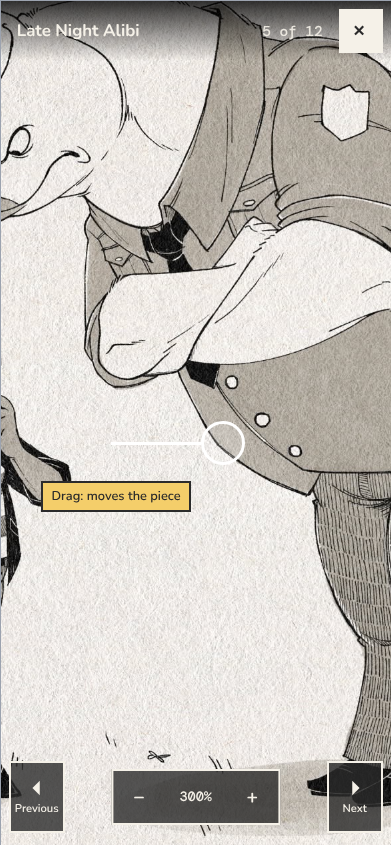
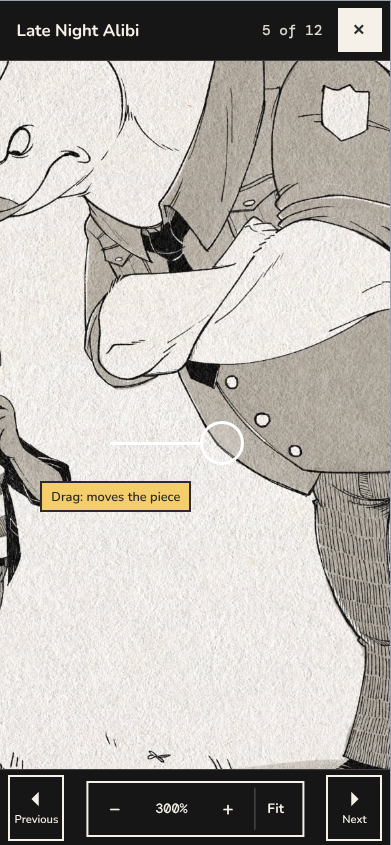
Full-screen design: the persona walkthrough's fixes
Claude-Session: https://claude.ai/code/session_01HWRLNSVAoX5Ni8d8XcwJh1

diff --git a/docs/design/mockups/portfolio-full-screen/mockups.html b/docs/design/mockups/portfolio-full-screen/mockups.html
@@ -40,23 +40,29 @@
   .fs { position: absolute; inset: 0; background: var(--fs); color: #f5f1e8; overflow: hidden; }
   .fs__stage { position: absolute; inset: 0; display: flex; align-items: center; justify-content: center; }
   .fs__stage img { flex-shrink: 0; max-width: 100%; max-height: 100%; object-fit: contain; display: block; }
-  .fs__top { position: absolute; top: 0; left: 0; right: 0; display: flex; align-items: center; gap: 1rem; padding: .5rem .5rem .5rem 1rem;
-    background: linear-gradient(#000c, #0000); }
+  .fs__top { position: absolute; top: 0; left: 0; right: 0; height: 60px; display: flex; align-items: center; gap: 1rem; padding: .5rem .5rem .5rem 1rem;
+    background: #161616; border-bottom: 1px solid #f5f1e833; }
+  .fs__stage.between { top: 60px; bottom: 76px; }
+  .fs__stage.between-wide { top: 60px; bottom: 72px; left: 72px; right: 72px; }
+  .fs__bottom { position: absolute; left: 0; right: 0; bottom: 0; height: 76px; background: #161616; border-top: 1px solid #f5f1e833; }
   .fs__title { font: 700 1.05rem 'Nunito'; flex: 1; min-width: 0; white-space: nowrap; overflow: hidden; text-overflow: ellipsis; }
   .fs__count { font: 500 .9rem 'DM Mono'; opacity: .9; }
   .fs__close { min-width: 44px; min-height: 44px; display: inline-flex; align-items: center; gap: .4rem; padding: 0 .75rem; background: var(--beige); color: var(--ink);
     border: 2px solid var(--beige); font: 700 .95rem 'Nunito'; }
   .fs__side { position: absolute; top: 50%; transform: translateY(-50%); width: 56px; height: 72px; display: flex; flex-direction: column; align-items: center; justify-content: center; gap: 2px;
-    background: #2b2b2bcc; border: 2px solid #f5f1e8; color: #f5f1e8; font: 600 .7rem 'Nunito'; }
+    background: #161616; border: 2px solid #f5f1e8; color: #f5f1e8; font: 600 .7rem 'Nunito'; }
   .fs__side svg { width: 22px; height: 22px; }
+  .fs__side, .fs__zoom { z-index: 2; }
   .fs__side.prev { left: .5rem; } .fs__side.next { right: .5rem; }
   .fs__side.off { border-style: dashed; border-color: #f5f1e866; color: #f5f1e866; background: transparent; }
   .fs__zoom { position: absolute; bottom: .75rem; left: 50%; transform: translateX(-50%); display: flex; align-items: center; gap: .25rem; padding: .25rem;
-    background: #2b2b2bcc; border: 2px solid #f5f1e8; }
+    background: #161616; border: 2px solid #f5f1e8; }
   .fs__zoom button { min-width: 44px; min-height: 44px; background: transparent; color: #f5f1e8; border: 0; font: 700 1.2rem 'Nunito'; }
   .fs__zoom .lvl { font: 500 .85rem 'DM Mono'; min-width: 4.5em; text-align: center; }
   .fs__zoom .fit { font-size: .85rem; border-left: 1px solid #f5f1e855; }
-  .fs__zoom .off { opacity: .4; }
+  .fs__zoom button.off { border: 2px dashed #f5f1e877; color: #f5f1e877; }
+  .fs__zoom button { border: 2px solid transparent; }
+  .fsbtn.icon { padding: 0; width: 44px; justify-content: center; }
   .note { position: absolute; font: 600 .8rem 'Nunito'; background: var(--yellow); color: var(--ink); padding: .3rem .55rem; border: 2px solid var(--ink); }
   .touch { position: absolute; width: 44px; height: 44px; border-radius: 50%; border: 3px solid #fff; background: #ffffff33; }
   .arrow { position: absolute; height: 3px; background: #fff; }
@@ -82,23 +88,23 @@
 </div></div>
 
 <!-- 2. Phone: the dialog with Full screen -->
-<div class="wrap"><h6>2. Phone: the dialog; Full screen on the picture (tapping the picture works too)</h6>
+<div class="wrap"><h6>2. Phone: the dialog; Full screen is an icon button (named "Full screen") on the picture, and tapping the picture works too</h6>
 <div class="screen phone" id="m2">
   <div class="behind"></div>
   <div class="lightbox"><div class="lb">
     <button class="lb__close">✕</button>
     <div class="lb__pic"><img src="../../../../public/assets/images/bkgd-Comics.jpg" alt="">
-      <span class="fsbtn"><svg width="18" height="18" viewBox="0 0 24 24" fill="none" stroke="currentColor" stroke-width="2.5"><path d="M4 9V4h5M20 9V4h-5M4 15v5h5M20 15v5h-5"/></svg>Full screen</span></div>
+      <span class="fsbtn icon" title="Full screen"><svg width="18" height="18" viewBox="0 0 24 24" fill="none" stroke="currentColor" stroke-width="2.5"><path d="M4 9V4h5M20 9V4h-5M4 15v5h5M20 15v5h-5"/></svg></span></div>
     <div class="lb__info"><h2>Late Night Alibi</h2><p>"Well gee, officer…" A one-panel gag.</p>
       <ul class="tags"><li>original</li><li>gag</li></ul></div>
   </div></div>
 </div></div>
 
 <!-- 3. Laptop full screen, fit -->
-<div class="wrap"><h6>3. Laptop, full screen: the piece fits the screen; title, "3 of 12", Close; Previous and Next at the sides; zoom below</h6>
+<div class="wrap"><h6>3. Laptop, full screen: the piece fits between the bars; title, "3 of 12 · Original Work", Close; Previous and Next at the sides; zoom below (Fit and − can't be used at 100%: dashed)</h6>
 <div class="screen wide" id="m3">
   <div class="fs">
-    <div class="fs__stage"><img src="../../../../public/assets/images/bkgd-artwork.jpg" alt="" style="height:100%"></div>
+    <div class="fs__stage between-wide"><img src="../../../../public/assets/images/bkgd-artwork.jpg" alt="" style="height:100%"></div>
     <div class="fs__top"><span class="fs__title">Night Market</span><span class="fs__count">3 of 12 · Original Work</span>
       <span class="fs__close">✕ Close</span></div>
     <span class="fs__side prev"><svg viewBox="0 0 24 24" fill="currentColor"><path d="M15 4 7 12l8 8z"/></svg>Previous</span>
@@ -108,7 +114,7 @@
 </div></div>
 
 <!-- 4. Laptop zoomed -->
-<div class="wrap"><h6>4. Laptop, zoomed in to 340% where the fan clicked: drag (or the arrow keys) to move; the corner map shows where</h6>
+<div class="wrap"><h6>4. Laptop, zoomed in to 340% where the fan clicked: drag (or Shift with the arrow keys) to move; the corner map shows where</h6>
 <div class="screen wide" id="m4">
   <div class="fs">
     <div class="fs__stage" style="justify-content:flex-start;align-items:flex-start"><img src="../../../../public/assets/images/bkgd-artwork.jpg" alt=""
@@ -122,14 +128,14 @@
 </div></div>
 
 <!-- 5. Phone full screen -->
-<div class="wrap"><h6>5. Phone, full screen (on an iPhone, the piece fills the window the same way)</h6>
+<div class="wrap"><h6>5. Phone, full screen (on an iPhone, Safari's own bars stay above and below this)</h6>
 <div class="screen phone" id="m5">
   <div class="fs">
-    <div class="fs__stage"><img src="../../../../public/assets/images/bkgd-Comics.jpg" alt="" style="width:100%"></div>
+    <div class="fs__stage between"><img src="../../../../public/assets/images/bkgd-Comics.jpg" alt="" style="width:100%"></div>
     <div class="fs__top"><span class="fs__title">Late Night Alibi</span><span class="fs__count">5 of 12</span><span class="fs__close">✕</span></div>
-    <span class="fs__side prev" style="top:auto;bottom:.75rem;transform:none"><svg viewBox="0 0 24 24" fill="currentColor"><path d="M15 4 7 12l8 8z"/></svg>Previous</span>
-    <span class="fs__side next" style="top:auto;bottom:.75rem;transform:none"><svg viewBox="0 0 24 24" fill="currentColor"><path d="m9 4 8 8-8 8z"/></svg>Next</span>
-    <div class="fs__zoom" style="bottom:1.25rem"><button class="off">−</button><span class="lvl">100%</span><button>+</button></div>
+    <span class="fs__side prev" style="top:auto;bottom:.25rem;transform:none;height:66px"><svg viewBox="0 0 24 24" fill="currentColor"><path d="M15 4 7 12l8 8z"/></svg>Previous</span>
+    <span class="fs__side next" style="top:auto;bottom:.25rem;transform:none;height:66px"><svg viewBox="0 0 24 24" fill="currentColor"><path d="m9 4 8 8-8 8z"/></svg>Next</span>
+    <div class="fs__bottom"></div><div class="fs__zoom" style="bottom:.5rem"><button class="off">−</button><span class="lvl">100%</span><button>+</button><button class="fit off">Fit</button></div>
   </div>
 </div></div>
 
@@ -140,16 +146,16 @@
     <div class="fs__stage" style="justify-content:flex-start;align-items:flex-start"><img src="../../../../public/assets/images/bkgd-Comics.jpg" alt=""
       style="max-width:none;max-height:none;width:1170px;height:1067px;transform:translate(-420px,-80px)"></div>
     <div class="fs__top"><span class="fs__title">Late Night Alibi</span><span class="fs__count">5 of 12</span><span class="fs__close">✕</span></div>
-    <span class="fs__side prev" style="top:auto;bottom:.75rem;transform:none"><svg viewBox="0 0 24 24" fill="currentColor"><path d="M15 4 7 12l8 8z"/></svg>Previous</span>
-    <span class="fs__side next" style="top:auto;bottom:.75rem;transform:none"><svg viewBox="0 0 24 24" fill="currentColor"><path d="m9 4 8 8-8 8z"/></svg>Next</span>
-    <div class="fs__zoom" style="bottom:1.25rem"><button>−</button><span class="lvl">300%</span><button>+</button></div>
+    <span class="fs__side prev" style="top:auto;bottom:.25rem;transform:none;height:66px"><svg viewBox="0 0 24 24" fill="currentColor"><path d="M15 4 7 12l8 8z"/></svg>Previous</span>
+    <span class="fs__side next" style="top:auto;bottom:.25rem;transform:none;height:66px"><svg viewBox="0 0 24 24" fill="currentColor"><path d="m9 4 8 8-8 8z"/></svg>Next</span>
+    <div class="fs__bottom"></div><div class="fs__zoom" style="bottom:.5rem"><button>−</button><span class="lvl">300%</span><button>+</button><button class="fit">Fit</button></div>
     <span class="touch" style="left:200px;top:420px"></span><span class="arrow" style="left:110px;top:441px;width:90px"></span>
     <span class="note" style="left:40px;top:480px">Drag: moves the piece</span>
   </div>
 </div></div>
 
 <!-- 7. Controls hidden -->
-<div class="wrap"><h6>7. A tap on the piece hides the controls; another brings them back</h6>
+<div class="wrap"><h6>7. A tap on the piece hides the controls and the piece takes the whole screen; another tap brings them back</h6>
 <div class="screen phone" id="m7">
   <div class="fs">
     <div class="fs__stage"><img src="../../../../public/assets/images/bkgd-Comics.jpg" alt="" style="width:100%"></div>
@@ -160,7 +166,7 @@
 <div class="wrap"><h6>8. The first piece of its section: Previous can't be used; a screen reader hears the piece's title</h6>
 <div class="screen wide" id="m8">
   <div class="fs">
-    <div class="fs__stage"><img src="../../../../public/assets/images/bkgd-writing.jpg" alt="" style="height:100%"></div>
+    <div class="fs__stage between-wide"><img src="../../../../public/assets/images/bkgd-writing.jpg" alt="" style="height:100%"></div>
     <div class="fs__top"><span class="fs__title">Jungle Eyes</span><span class="fs__count">1 of 12 · Original Work</span><span class="fs__close">✕ Close</span></div>
     <span class="fs__side prev off"><svg viewBox="0 0 24 24" fill="currentColor"><path d="M15 4 7 12l8 8z"/></svg>Previous</span>
     <span class="fs__side next"><svg viewBox="0 0 24 24" fill="currentColor"><path d="m9 4 8 8-8 8z"/></svg>Next</span>
@@ -170,14 +176,14 @@
 </div></div>
 
 <!-- 9. Phone sideways -->
-<div class="wrap"><h6>9. A phone held sideways: the piece fits the height; the controls sit at the edges and over the piece, and a tap hides them</h6>
+<div class="wrap"><h6>9. A phone held sideways: Previous and Next move to the sides; the piece fits between the bars, and a tap gives it the whole screen</h6>
 <div class="screen side" id="m9">
   <div class="fs">
-    <div class="fs__stage"><img src="../../../../public/assets/images/bkgd-artwork.jpg" alt="" style="height:100%"></div>
-    <div class="fs__top"><span class="fs__title">Night Market</span><span class="fs__count">3 of 12</span><span class="fs__close">✕</span></div>
+    <div class="fs__stage between-wide" style="top:52px;bottom:60px"><img src="../../../../public/assets/images/bkgd-artwork.jpg" alt="" style="height:100%"></div>
+    <div class="fs__top"><span class="fs__title">Night Market</span><span class="fs__count">6 of 12</span><span class="fs__close">✕</span></div>
     <span class="fs__side prev"><svg viewBox="0 0 24 24" fill="currentColor"><path d="M15 4 7 12l8 8z"/></svg>Previous</span>
     <span class="fs__side next"><svg viewBox="0 0 24 24" fill="currentColor"><path d="m9 4 8 8-8 8z"/></svg>Next</span>
-    <div class="fs__zoom" style="bottom:.5rem"><button class="off">−</button><span class="lvl">100%</span><button>+</button></div>
+    <div class="fs__zoom" style="bottom:.25rem"><button class="off">−</button><span class="lvl">100%</span><button>+</button><button class="fit off">Fit</button></div>
   </div>
 </div></div>
 

diff --git a/docs/design/portfolio-full-screen.md b/docs/design/portfolio-full-screen.md
@@ -22,70 +22,75 @@ artwork, standing in for Star's. -->
 
 ## Decisions
 
-- **The controls stay until the fan hides them** (answers the epic's first open question). Full screen shows the title, "3 of 12", **Close**, **Previous**, **Next** and the zoom buttons over the piece, in a slim bar and at the edges. A tap or click on the piece hides them all, for a clean view; another tap brings them back. They never fade on a timer, which would hide **Close** from someone who's still reading the screen, and would need its own way to bring them back for keyboard and screen reader users.
-- **While a piece is zoomed in, a drag or swipe moves around it, and doesn't turn** (answers the second). This is the comic reader's rule for a pinch-zoomed page, and the one fans already know from photo apps. **Previous** and **Next** still turn at any zoom. The arrow keys turn while the piece fits the screen, and move around it while it's zoomed in.
-- **Full screen belongs to the dialog.** It opens from the dialog and closes back to it, on the piece last shown. It has no address and adds no history entry, like the dialog.
+- **A slim bar names the piece; a tap hides everything** (answers the epic's first open question). Full screen shows a top bar with the title, "3 of 12" and **Close**, and **Previous**, **Next** and the zoom buttons at the edges. While they show, the piece fits between the bars, so they never cover it. A tap or click on the piece hides them, and the piece takes the whole screen; another tap, a mouse movement, a key press, or moving focus to a control brings them back. They never fade on a timer, which would hide **Close** from someone still reading the screen. Story 1's "shows only the piece" is read as: none of the dialog's text or the site around it; the bars are the view's own controls.
+- **While a piece is zoomed in, a drag or swipe moves around it, and doesn't turn** (answers the second). This is the comic reader's rule for a pinch-zoomed page, and the one fans know from photo apps. **Previous**, **Next**, and the Left and Right arrow keys always turn, at any zoom, as story 2 asks; Shift with an arrow key, and Up and Down, move around a zoomed piece.
+- **Full screen belongs to the dialog.** It opens from the dialog and closes back to it, on the piece last shown. It has no address. Where it covers the window instead of using the browser's full-screen mode, it adds one history entry, so the phone's Back (or Safari's back-swipe) closes full screen instead of leaving the portfolio.
 
 ## How it works
 
-- **Opening.** The dialog's picture gains a **Full screen** button in its lower right corner (mock-ups 1 and 2). Choosing it, or tapping or clicking the picture itself, opens full screen on that piece. Where the browser offers its own full-screen mode, the site asks for it, and the browser's bars and the rest of the screen go. Where it doesn't (Safari on an iPhone), the same view covers the whole window instead (mock-up 5). Either way the page behind doesn't scroll.
-- **The picture.** The dialog's picture shows straight away, enlarged to fit, and a sharper copy loads behind it from the image CDN at the screen's size (its longer side times the screen's pixel density, never more than the original). When it's ready, it replaces the first without a jump. Zooming past the screen's size loads the original, up to 4,000 pixels on its longer side.
-- **Fitting.** The piece fits the screen whole, centred on a near-black background (mock-up 3). That is 100%: the zoom level always counts from the whole piece, not from the picture's pixels.
-- **Zooming.** By pinching; by double-tapping or double-clicking (to 250% at that point, or back to 100%); with the mouse wheel or a trackpad, at the pointer; with **+** and **−** (each step 1.5 times); and with the + and − keys. **Fit** and the 0 key go back to 100%. Zoom stops at 100% on the way out, and on the way in where one of the picture's pixels covers two of the screen's, but never below 200%. While zoomed, a small map in the corner shows the whole piece with the part on screen outlined (mock-up 4).
-- **Moving around.** A drag (one finger, or the mouse) moves the zoomed piece; it stops at the piece's edges. The arrow keys move it by a tenth of the screen.
-- **Turning.** **Previous** and **Next** sit at the screen's left and right edges on a laptop, and at the bottom corners on a phone, where thumbs are (mock-ups 3 and 5). A swipe left or right turns while the piece fits. Each piece opens at 100%. The next piece's picture is fetched once the current one has loaded, so turning forward doesn't wait. There's no turning past either end: on the first piece **Previous** can't be used, and on the last **Next** can't (mock-up 8).
-- **The order.** The pieces of the section the fan opened the piece from, in its order on the page ("Original Work", say, even when the filter is **All**). A piece in several sections is turned through in the section it was opened from. The count reads "3 of 12 · Original Work" on a laptop and "3 of 12" on a phone.
-- **Leaving.** **Close**, Escape, or the browser's own way out (its Escape, or its "Exit full screen") goes back to the dialog of the piece last shown, with focus on its **Full screen** button (mock-up 10). The gallery behind has scrolled that section's row to the piece. **Close** in the dialog then returns to the gallery as now.
+- **Opening.** The dialog's picture gains a **Full screen** button in its lower right corner: with its label on a laptop (mock-up 1), as a 44-pixel icon button named "Full screen" on a phone, so it covers less of the piece (mock-up 2). Choosing it, or tapping or clicking the picture itself, opens full screen on that piece. Where the browser offers its own full-screen mode, the site asks for it, and the browser's bars go. Where it doesn't (Safari on an iPhone, where Safari's own bars stay), or the browser refuses, the same view covers the whole window instead, clear of the iPhone's notch and home bar (mock-up 5). Either way the page behind doesn't scroll, and pinching zooms the piece, not the page.
+- **The picture.** The opened piece shows its dialog picture straight away, enlarged to fit, while a sharper copy loads from the image CDN at the screen's size (its longer side times the screen's pixel density, never more than the original). When it's ready, it replaces the first without a jump. Zooming in loads larger copies only as the zoom needs them: at twice the screen's size past 150%, and at four times past 300%, never more than the original.
+- **Fitting.** At 100% the piece fits whole, centred on a near-black background, between the bars while they show (mock-up 3) and on the whole screen while they're hidden (mock-up 7). The zoom level always counts from the whole piece, not from the picture's pixels.
+- **Zooming.** By pinching; by double-tapping or double-clicking (to 250% at that point, or back to 100%); with the mouse wheel or a trackpad, at the pointer; with **+** and **−** (each step 1.5 times); and with the +, = and − keys (and the number pad's). **Fit** and the 0 key go back to 100%. Zoom stops at 100% on the way out, and on the way in where one of the picture's pixels covers two of the screen's, but never below 200%. On a laptop, while zoomed, a small map in the corner shows the whole piece with the part on screen outlined (mock-up 4); a phone has no room for it.
+- **Moving around.** A drag (one finger, or the mouse) moves the zoomed piece; it stops at the piece's edges. Shift with an arrow key, or Up and Down, move it by a tenth of the screen.
+- **Tapping and dragging.** A single tap or click hides or shows the controls only once the moment for a double-tap has passed (about 0.3 seconds), so a double-tap zooms without flickering the controls; a click that ends a drag does nothing.
+- **Turning.** **Previous** and **Next** sit at the screen's left and right edges on a laptop and on a phone held sideways (mock-ups 3 and 9), and at the bottom corners of a phone held upright, where thumbs are (mock-up 5). A swipe left or right turns while the piece fits: the piece follows the finger and the next slides in; a swipe that's mostly up or down isn't a turn, and nor is one that starts at the screen's left edge, where Safari's back-swipe lives. Each piece opens at 100%. Under reduced motion, the turn cuts straight to the next piece.
+- **A piece that hasn't loaded.** Once the current piece has loaded, the next and the previous piece are fetched, the one in the direction the fan is going first. If the fan turns faster than that, the title and count change at once, the background shows, and after 0.3 seconds a small loading sign; the piece appears when it arrives.
+- **The order.** The pieces of the section the fan opened the piece from, in its order on the page ("Original Work", say, even when the filter is **All**), leaving out any without a picture. A piece in several sections is turned through in the section it was opened from. The count, "3 of 12 · Original Work" on a laptop and "3 of 12" on a phone, counts only pieces with a picture. There's no turning past either end: on the first piece **Previous** can't be used, and on the last **Next** can't (mock-up 8).
+- **Leaving.** **Close**, Escape, the browser's own way out (its Escape, or "Exit full screen"), or Back where full screen covers the window, goes back to the dialog of the piece last shown, with focus on its **Full screen** button (mock-up 10). One Escape leaves full screen only, not the dialog too. The gallery behind has its section's row scrolled to that piece, and the dialog's **Close** then returns focus to that piece in the gallery.
 
 ## Flow: a fan on a phone
 
-1. In the gallery, the fan taps a piece; its dialog opens as now, with **Full screen** on the picture (mock-up 2).
-2. They tap the picture. It fills the screen, the browser's bars go, and the title, "5 of 12" and **✕** sit in a slim bar at the top, with **Previous**, the zoom buttons and **Next** along the bottom (mock-up 5).
-3. They pinch into a face in the piece, and drag across to see the hands (mock-up 6). The swipe moves the piece; it doesn't turn.
-4. They pinch back out (or tap **Fit**), and swipe left: the next piece in the section opens whole.
-5. They tap the piece to hide the controls and look at it clean (mock-up 7), then tap again to bring them back.
-6. They turn the phone sideways; the piece refits to the new shape (mock-up 9).
-7. They tap **✕**. The dialog for the piece they stopped on opens, and its **Close** takes them back to the gallery.
+1. In the gallery, the fan taps a piece; its dialog opens as now, with the **Full screen** icon on the picture (mock-up 2).
+2. They tap the picture. It fills the screen (the browser's bars go, except on an iPhone, where Safari's stay), with the title, "5 of 12" and **✕** in a bar at the top, and **Previous**, the zoom buttons and **Next** in a bar at the bottom (mock-up 5).
+3. They pinch into a face in the piece, and drag across to see the hands (mock-up 6). The drag moves the piece; it doesn't turn.
+4. They tap **Fit** (or pinch back out) and swipe left: the next piece in the section slides in, whole.
+5. They tap the piece: the bars go, and it takes the whole screen (mock-up 7). Another tap brings them back.
+6. They turn the phone sideways; the piece refits, and **Previous** and **Next** move to the sides (mock-up 9, a later piece).
+7. They tap **✕**, or use the phone's Back. The dialog for the piece they stopped on opens, and its **Close** takes them back to the gallery, at that piece.
 
 ## Flow: a fan on a laptop
 
 1. In a dialog, they choose **Full screen** (mock-up 1), or click the picture.
 2. The piece fills the screen (mock-up 3). The right arrow key or **Next** turns; Escape leaves.
-3. They scroll the mouse wheel over a detail, or double-click it, to zoom there (mock-up 4); they drag, or use the arrow keys, to move around; **Fit** or 0 shows it whole again.
+3. They scroll the mouse wheel over a detail, or double-click it, to zoom there (mock-up 4); they drag, or use Shift with the arrow keys, to move around; **Fit** or 0 shows it whole again.
 
 ## States and errors
 
 - **The sharper picture is loading:** the dialog's copy shows, enlarged; nothing else changes. If the sharper copy fails, the dialog's copy stays, and zooming works on it.
-- **A piece without a picture:** a placeholder item in the gallery has none. Its dialog has no **Full screen**, and turning skips it.
+- **A turned-to piece is loading:** as above, under "A piece that hasn't loaded". If it fails, "This piece couldn't load." shows in its place, and turning on works.
+- **A piece without a picture:** a placeholder item in the gallery has none. Its dialog has no **Full screen**, and turning and the count skip it.
 - **The browser refuses full screen** (a setting, or an embedded frame): the view covers the window instead, as on an iPhone.
 - **The fan leaves full screen with the browser's own control:** the site notices and goes back to the dialog, as with **Close**.
 - **A screen rotates or a window resizes:** the piece refits at 100%, or keeps its zoom centred on the same point.
 - **One piece in the section:** **Previous** and **Next** both can't be used; full screen still works.
-- **Reduced motion:** zooming with the buttons, keys and double-tap jumps instead of easing; pinching and dragging follow the fingers as always.
-- **Preview** (Star's portfolio preview): **Full screen** works the same, inside the preview frame, covering the frame.
+- **Reduced motion:** zooming with the buttons, keys and double-tap jumps instead of easing, and turning cuts instead of sliding; pinching and dragging follow the fingers as always.
+- **Large text** (the browser's zoom at 200% or more): the top bar's title shortens with an ellipsis, the zoom bar's buttons keep their size, and hiding the controls still gives the piece the whole screen.
+- **Preview** (Star's portfolio preview): **Full screen** works the same, covering the preview frame. A piece the preview opened directly counts from the first section it's in.
 
 ## Accessibility
 
-- **Full screen** is a button named "Full screen". The view is a modal dialog named "Night Market, full screen", which keeps focus inside it; **Close** is focused when it opens.
-- The picture keeps its alt text. Opening, and each turn, announces "Night Market, 3 of 12." through a polite live region, followed by the alt text when the piece has one (mock-up 8).
-- **Previous**, **Next**, **Close**, **+**, **−** and **Fit** are buttons with names, at least 44 by 44 pixels. **Previous** and **Next** at the ends, **−** at 100% and **+** at the most zoom can't be used (`aria-disabled`, dashed like the comic reader's unusable controls), and stay focusable so their place is kept.
-- Keys: Left and Right turn while the piece fits; while it's zoomed in, the arrow keys move around it. + and − zoom, 0 fits, Escape leaves. Tab moves through the controls. Hidden controls come back on any key press, so a keyboard user can't lose them.
+- **Full screen** is a button named "Full screen". The view is a modal dialog named "Full screen", which keeps focus inside it; **Close** is focused when it opens. The dialog behind does nothing with keys or clicks while full screen is open.
+- The picture keeps its alt text. Opening, and each turn, announces "Night Market, 3 of 12." through a polite live region, followed by the alt text when the piece has one (mock-up 8). The title is said once, by the live region, not again by the view's name.
+- **Previous**, **Next**, **Close**, **+**, **−** and **Fit** are buttons with names, at least 44 by 44 pixels. **Previous** and **Next** at the ends, **−** and **Fit** at 100%, and **+** at the most zoom can't be used: they're drawn dashed, like the comic reader's controls that can't be used, are marked `aria-disabled`, and Tab skips them, as in the comic reader, so Tab only lands on what does something.
+- Hiding the controls is visual only: they stay in the accessibility tree, and any control that gets focus (by Tab, or a screen reader's own navigation) brings the controls back. The picture isn't a button, so a screen reader's double-tap on it doesn't hide anything. If a mouse click hides the controls while one has focus, focus moves to the view first, so it never leaves full screen.
+- Keys: Left and Right turn; Shift with the arrow keys, and Up and Down, move around a zoomed piece; +, = and − zoom, 0 fits, Escape leaves. Tab moves through the controls.
 - The zoom level is announced when it changes by a button or key ("250%").
-- The controls' text and borders are light on a translucent dark backing, at least 4.5:1 against any piece.
+- The bars are solid near-black, so their light text has at least 4.5:1 contrast whatever the piece; the side buttons have the same solid backing.
 
 ## Mock-ups
 
 | # | Shows | File |
 |---|---|---|
 | 1 | Laptop: a piece's dialog, with **Full screen** on its picture (focused) | `mockups/portfolio-full-screen/1-laptop-dialog.png` |
-| 2 | Phone: the dialog, with **Full screen** on the picture | `mockups/portfolio-full-screen/2-phone-dialog.png` |
-| 3 | Laptop, full screen: the piece fits; title, "3 of 12 · Original Work", **Close**; **Previous** and **Next** at the sides; zoom below | `mockups/portfolio-full-screen/3-laptop-full-screen.png` |
-| 4 | Laptop, zoomed to 340%: drag or the arrow keys to move; the corner map | `mockups/portfolio-full-screen/4-laptop-zoomed.png` |
-| 5 | Phone, full screen (the same on an iPhone, covering the window) | `mockups/portfolio-full-screen/5-phone-full-screen.png` |
+| 2 | Phone: the dialog, with the **Full screen** icon button on the picture | `mockups/portfolio-full-screen/2-phone-dialog.png` |
+| 3 | Laptop, full screen: the piece fits between the bars; title, "3 of 12 · Original Work", **Close**; **Previous** and **Next** at the sides; zoom below, with **−** and **Fit** dashed at 100% | `mockups/portfolio-full-screen/3-laptop-full-screen.png` |
+| 4 | Laptop, zoomed to 340%: drag or Shift with the arrow keys to move; the corner map | `mockups/portfolio-full-screen/4-laptop-zoomed.png` |
+| 5 | Phone, full screen, held upright: **Previous**, zoom and **Next** in the bottom bar (on an iPhone, Safari's own bars stay above and below) | `mockups/portfolio-full-screen/5-phone-full-screen.png` |
 | 6 | Phone, pinched in: a drag moves the piece and doesn't turn | `mockups/portfolio-full-screen/6-phone-pinched.png` |
-| 7 | Controls hidden by a tap | `mockups/portfolio-full-screen/7-controls-hidden.png` |
+| 7 | Controls hidden by a tap: the piece takes the whole screen | `mockups/portfolio-full-screen/7-controls-hidden.png` |
 | 8 | The first piece in its section: **Previous** can't be used; what a screen reader hears | `mockups/portfolio-full-screen/8-first-piece.png` |
-| 9 | A phone held sideways | `mockups/portfolio-full-screen/9-sideways.png` |
+| 9 | A phone held sideways, on a later piece: **Previous** and **Next** at the sides | `mockups/portfolio-full-screen/9-sideways.png` |
 | 10 | After **Close**: the dialog of the piece last shown, with focus on **Full screen** | `mockups/portfolio-full-screen/10-back-to-dialog.png` |
 
 ## For the guide
@@ -94,15 +99,41 @@ artwork, standing in for Star's. -->
 
 ## For the spec to check
 
-- Full screen's request and its fallback, with the browser's own exit noticed; that the page behind doesn't scroll.
-- The image sizes requested from the CDN at fit and zoomed, and the prefetch of the next piece.
-- The zoom limits, the zoom at a point (wheel and double-click), and the drag's edges.
-- That a drag while zoomed never turns, and the arrow keys' two jobs.
-- The order: the section the piece came from, the ends, and skipping pieces without pictures.
-- Focus: into the view on opening, back on **Full screen** on leaving, and inside the view throughout; the announcements.
-- Reduced motion.
+- Full screen's request and its fallback (covering the window, its history entry, Back closing it), with the browser's own exit noticed; that the page behind doesn't scroll or zoom; the iPhone's safe areas.
+- That full screen handles Escape first, and the dialog's own Escape, Tab trap and outside click do nothing while it's open; one Escape leaves full screen only.
+- The image sizes requested from the CDN at fit and at each zoom step; the prefetch of both neighbours; the loading sign and the failed piece.
+- The zoom limits, the zoom at a point (wheel and double-click), the drag's edges, and tap versus double-tap versus drag.
+- That a drag while zoomed never turns, that Left and Right always turn, and that vertical and left-edge swipes don't.
+- The order: the section the piece came from, the ends, the count, and skipping pieces without pictures; preview's directly opened piece.
+- Focus: into the view on opening, back on **Full screen** on leaving, then on the piece last shown in the gallery after the dialog closes; controls coming back on focus; the announcements.
+- Reduced motion; large text.
 - That the gallery and the dialog look and load as before.
 
 ## Persona walkthrough
 
-To be written after the walkthrough.
+A walkthrough for persona-fan (2026-11-05), which checked both stories' criteria and opened every mock-up, found six blocking problems and seventeen others. Addressed here:
+
+- **Blocking:**
+  - on an iPhone (and wherever full screen covers the window), Back or the back-swipe left the portfolio: full screen now adds a history entry there, and swipes from the left edge don't turn;
+  - no state for a turned-to piece still loading: the loading sign, and both neighbours fetched ahead;
+  - the arrow keys moved a zoomed piece, but story 2 says Left and Right turn: they always turn now, and Shift with the arrows (and Up and Down) move it;
+  - a screen reader's double-tap on the picture hid every control: hiding is visual only, focus brings them back, and the picture isn't a button;
+  - the controls' text was unreadable over light pieces and covered the piece: solid bars, and the piece fits between them;
+  - phones had no **Fit**: added.
+- **Others:**
+  - the dialog's own Escape and focus trap while full screen is open;
+  - focus returning to the piece last shown, not the one first opened;
+  - Safari's bars, safe areas, and page zoom on an iPhone;
+  - tap versus double-tap, and a drag's click;
+  - loading larger pictures only as the zoom needs them;
+  - the turn's slide, vertical swipes, and reduced motion;
+  - the count leaving out pieces without pictures, and preview's directly opened piece;
+  - controls that can't be used: dashed, and skipped by Tab as in the comic reader, **Fit** among them;
+  - the title said once on opening;
+  - mouse movement bringing the controls back;
+  - the = key and the number pad;
+  - a smaller **Full screen** button on phones;
+  - large text;
+  - the corner map on laptops only;
+  - mock-ups 5, 6 and 9 matched to the text.
+- **For the lead:** story 1 says full screen "shows only the piece"; this design shows the title, count and controls in bars around it, which a tap hides. Confirm that reading when merging, or ask for the bars to go.
